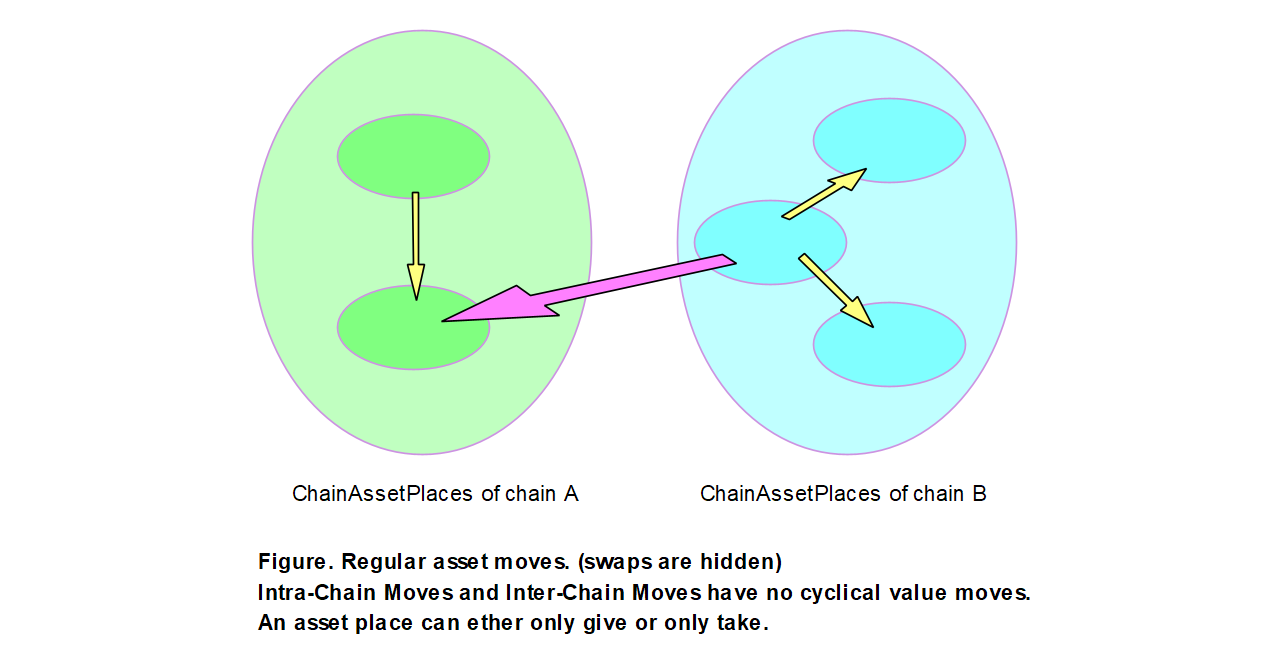
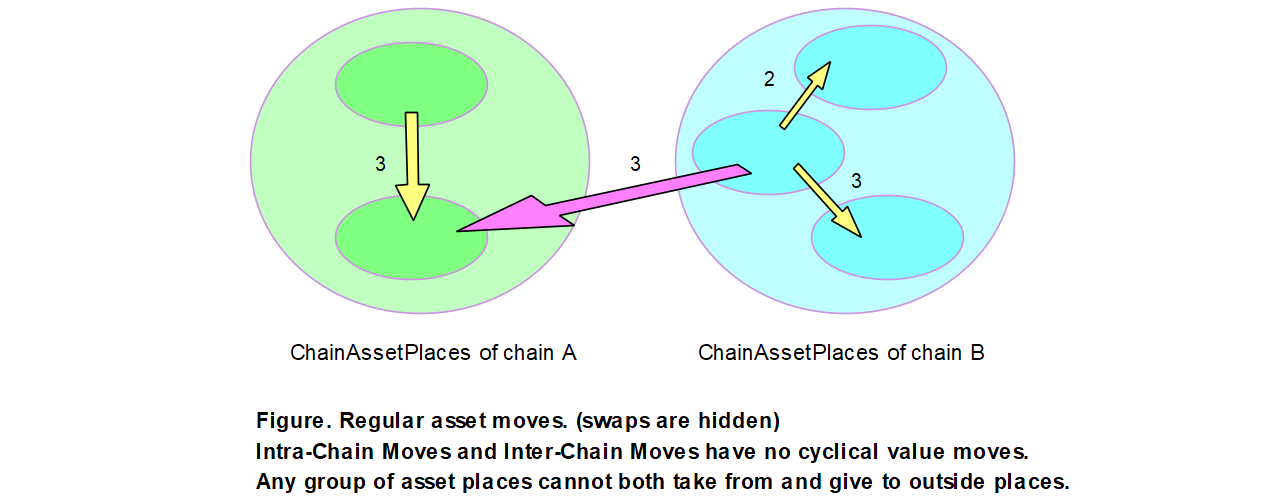
images

diff --git a/Architecture/Architecture.md b/Architecture/Architecture.md
@@ -149,13 +149,13 @@ From the cost point of view, we need to eliminate redundant value flows from ass
 **For any asset move plan, there exists a unique asset move plan that is regular and equivalent to the original plan.**
 <br>
 
-Below comes ab example of irregular asset move plan:
+Below comes ab example of irregular asset move plan, whatever amount of value the arrows carry:
 
 <p align="center">
   <img src=".\Irregular asset moves.PNG" width="1280" title="high-level use cases" style="page-break-after: avoid;">
 </p>
 
-The above asset move plan can be regularized to the following regular asset move plan:
+The above asset move plan can be regularized to the following regular asset move plan, with one less inter-chain move and one less intra-chain move:
 
 <p align="center">
   <img src=".\Regular asset moves.PNG" width="1280" title="high-level use cases" style="page-break-before: avoid;">
